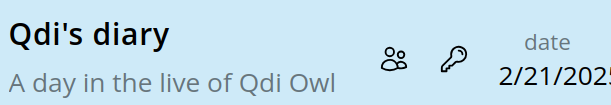
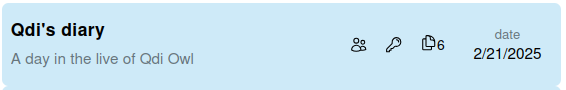
feature: cover new features from release 1.0.3

Changed region(s): [[0.0, 0.0, 1.0, 1.0], [0.6007, 0.3778, 0.811, 0.7111], [0.841, 0.3111, 0.9311, 0.4889]]

diff --git a/docs/workflow/analysis/overview.md b/docs/workflow/analysis/overview.md
@@ -13,8 +13,10 @@ to include or exclude for your analysis.
 This part is reactive, meaning any change of inclusion or
 exclusion will trigger the analysis to re-run.
 
+![analysis overview](../../public/img/analysis/overview.png)
+
 ## Export your raw data
-> [!NOTE]
+> [!WARNING]
 > For now, the data included in the export is reflecting your
 > selections of sources and codes.
 > If you deselect any source or code then they will not be
@@ -22,6 +24,8 @@ exclusion will trigger the analysis to re-run.
 
 In order to export your data, select/deselect the desired sources and codes
 and then click on the "Export" tab in the left panel.
+
+![export overview](../../public/img/analysis/export.png)
 
 Then select the desired export format in order to run the export.
 
@@ -33,11 +37,62 @@ Then select the desired export format in order to run the export.
 ## Visualize your data
 The right panel offers you a list of visualizations that allow for different displays
 of your data. 
+
+Each visualization may provide its own options, allowing you to modify certain
+parameters that reactively update the visualization.
+
+### List of Selections
+
 The default visualization is a simple list of your selections for included sources and codes.
+
 You can switch to a different visualization by clicking on the select menu in the right panel's
 upper left corner and selecting the desired visualization.
 
-Each visualization comes with its own settings (or none), allowing you to modify certain 
-parameters that reactively update the visualization.
-
 ![visualization example](../../public/img/analysis/visualization.png)
+
+### Code Portrait
+
+The code portrait renders the all occurrences of selections of a given code in 
+all included documents in their ascending order of their starting point.
+
+Depending on the amount of sources and selections you might want to
+play with the options in order to align their size and shape.
+
+![code portrait example 1](../../public/img/analysis/code_portrait.png)
+![code portrait example 2](../../public/img/analysis/code_portrait_2.png)
+
+### Word Cloud
+
+The word cloud renders all occurrences of words, covered by your selections.
+The size of a word is thereby influenced by general options parameters and
+the number of occurrences in a selection.
+
+Besides that you manage filter lists for certain words, modifying your
+word cloud towards a highly customized output.
+
+Note that you should take a record (we will do that in future releases for you)
+what parameters led to your cloud in order to make your publication more transparent!
+
+![word cloud example 1](../../public/img/analysis/word_cloud.png)
+![word cloud example 2](../../public/img/analysis/word_cloud_2.png)
+
+
+
+### Code Selection Count
+
+This provides a bar chart for counting code occurrences across all sources.
+You can manage multiple parameters for layout and sorting.
+
+**Counting by Source**
+This provides a multi-bar chart that shows the code occurrences
+aligned by the sources:
+
+![code selection count example 1](../../public/img/analysis/bar_chart.png)
+
+**Counting by Code**
+This does not display sources but only the codes and their count
+across all sources:
+
+![code selection count example 2](../../public/img/analysis/bar_chart_2.png)
+
+

diff --git a/docs/workflow/coding/overview.md b/docs/workflow/coding/overview.md
@@ -10,13 +10,27 @@ If you come from other QDA software you might want to look at our [REFI-based te
 The coding takes place on the coding page, which you can reach by [selecting a project](../../projects/manage.md)
 and then click on the coding icon on the left navigation bar.
 
-### Left panel: code management
-The main purpose of the left panel is to manage codes.
-Read the page on [managing codes](./codes.md) for further information.
+![Ovierview of the coding page](../../public/img/coding/overview.png)
 
-#### Cleanup
+### Left panel: code management
+The main purpose of the left panel is to manage coding via the different tabs.
+Here is a summary of what they have to offer:
+
+#### 1. Codes Tab
+Contains the [codes management](./codes.md), which is described on its own page
+due to the amount of available features.
+The currently opened source is obviously not included in that list.
+
+
+#### 2. Sources Tab
+The sources tab lists all **other** sources that are **locked for coding**,
+so you can quickly switch between them during your coding workflow.
+
+![other sources tab](../../public/img/coding/other_sources.png)
+
+#### 3. Cleanup Tab
 The "cleanup" tab, lists any selections, codes or codebooks, that might contain references that
-lead to non-existing targets. You will not need this functionality unless you are actively informed about it
+lead to non-existing targets. You will likely never need this functionality unless you are actively informed about it
 by OpenQDA.
 
 ### Right panel: selection management
@@ -24,6 +38,22 @@ The right panel focuses entirely on managing selection.
 Assignments of codes to parts of sources is commonly referred to as coding. In OpenQDA, however these assignments
 are not named "codes" but "selections".
 
+#### 1. Selections
 Although the editor might look like the same as [the editor from the preparations view](../preparation/editing.md),
 it inhibits an entirely different functionality.
 There is an [entire page on how selections work](./selections.md) and how you can interact with it. 
+
+#### 2. Integrity and Position
+Notice the bottom right: there is an 8-digit "integrity hash".
+It is a shorted version of an [SHA-256 hash in hexadecimal form](https://en.wikipedia.org/wiki/SHA-2).
+
+![integrity and position](../../public/img/coding/integrity.png)
+
+This hash value indicates the state of the source and might help you
+to understand, if you still code the same version.
+Furthermore, you might want to provide this hash to reviewers
+or other coders to verify they code or review the same
+source as you do/did.
+
+Additionally, there are the start and end position of the current selection displayed,
+indicating to which character range a coding will apply.

diff --git a/docs/projects/manage.md b/docs/projects/manage.md
@@ -8,12 +8,18 @@ on the projects icon on the [navigation bar](../ui.md).
 
 Every [created project](./create.md) is listed on the left panel
 and contains the project name, the date of last update and
-some icons.
+some icons:
 
 ![project entry example](../public/img/create_project/entry.png)
 
-The key icon indicates projects created by yourself, while the users-icon
-indicates projects with [teams](./teams.md).
+The **key icon** indicates projects created by yourself. 
+If you were added to a project by another member then this icon
+will not be displayed.
+
+This **users-icon** indicates that a project has a [teams](./teams.md).
+
+The **documents icon** shows the number of [Sources](../workflow/preparation/overview.md#sources)
+you (or your team members) have already added to this project.
 
 ## Select a project
 After you successfully signed in to OpenQDA you may find 
@@ -28,8 +34,9 @@ Click on a project entry to select it as the current project, which in turn
 opens the project management views in the right panel.
 
 ## Overview
-This is the default for a selected project.
-Here you can edit your project information or delete the entire project, including all it's data.
+This is the default view for a selected project.
+Here you can edit your project information,
+view and select the added sources, or delete the entire project, including all it's data.
 
 ![project overview](../public/img/create_project/project_overview.png)
 

diff --git a/docs/workflow/preparation/editing.md b/docs/workflow/preparation/editing.md
@@ -18,6 +18,11 @@ others are associated "line by line".
 
 ![line blocks](../../public/img/preparation/line_blocks.png)
 
+## REFI Default
+The REFI standard does only consider start position and end position as
+standard-compliant fields for text selections.
+We considered this as a strong indicator against a line-based representation.
+
 ## Selection ranges
 We decided the range of selected characters as a reproducible way to determine
 selections of codes across device types and screen sizes.
